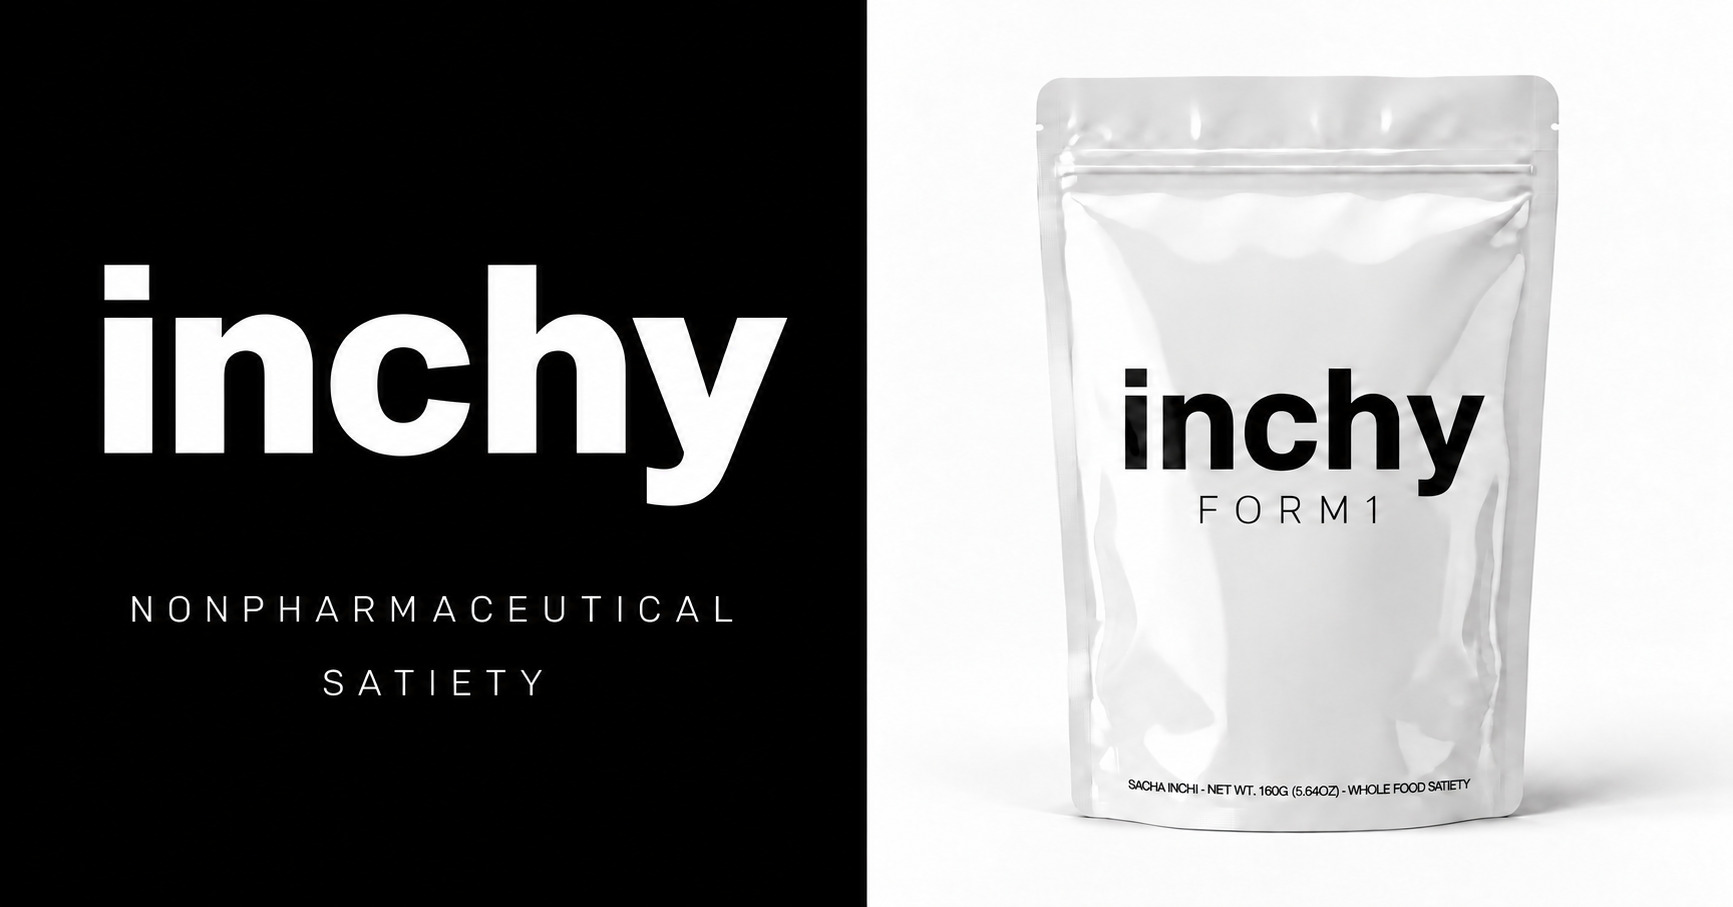
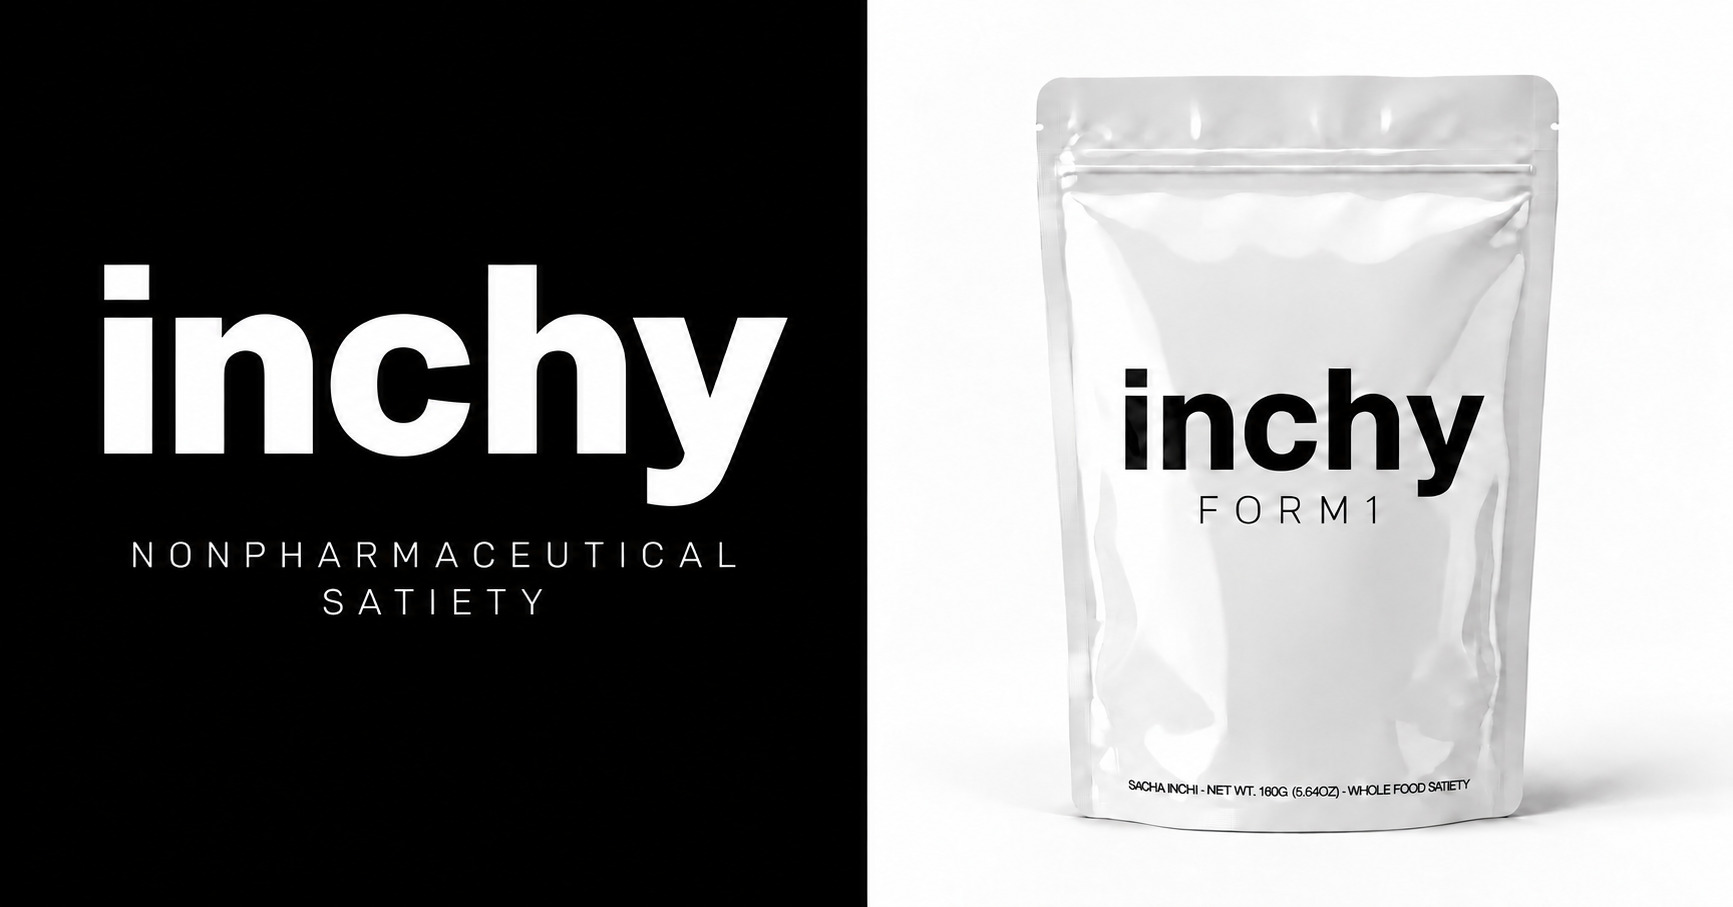
Finalize restrained FORM1 scale and social lockup

diff --git a/assets/inchy-clarity.css b/assets/inchy-clarity.css
@@ -268,7 +268,7 @@
   display: block;
   margin: 22px 0 28px;
   font-family: 'Arial Narrow', 'Helvetica Neue', Arial, sans-serif;
-  font-size: 24px;
+  font-size: 22px;
   font-weight: 300;
   line-height: 1;
   letter-spacing: .3em;
@@ -288,7 +288,7 @@
   .inchy-origin-feature__story { grid-template-columns: 1fr; gap: 28px; }
   .inchy-origin-feature__story > div { border-left: 0; padding-left: 0; }
   .inchy-origin-feature__story p { font-size: 18px; }
-  .inchy-form-name { margin-top: 18px; font-size: 19px; letter-spacing: .28em; }
+  .inchy-form-name { margin-top: 18px; font-size: 18px; letter-spacing: .28em; }
 }
 
 .inchy-product-panel__content .inchy-form-identity { width: 100%; max-width: 460px; }
